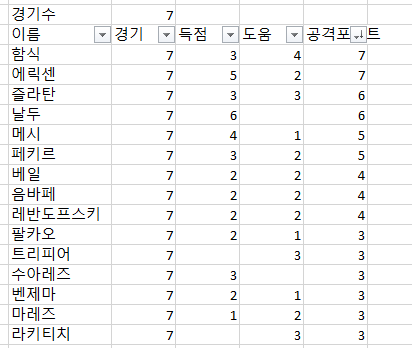
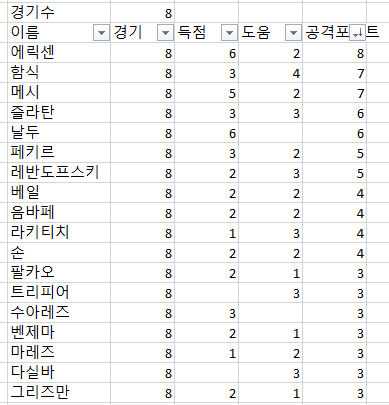
8라운드 업데이트

diff --git a/index.html b/index.html
@@ -33,10 +33,11 @@
             <h2>공격포인트</h2>
             <img src="image/%EA%B3%B5%EA%B2%A9%ED%8F%AC%EC%9D%B8%ED%8A%B8.PNG">
             
-            <h2>득점왕</h2>
-            <h2>호날두(제주) - 7골</h2>
-            <h2>도움왕</h2>
-            <h2>함식(서울) - 4도움</h2>
+            <h3>득점왕</h3>
+            <h4>호날두(제주), 에릭센(서울) - 6골</h4>
+            <h3>도움왕</h3>
+            <h4>함식(서울) - 4도움</h4>
+            <p>
     
             <h3>---카드수집가들---</h3>
             <h4>다르미안(수원) 1 옐로우</h4>
